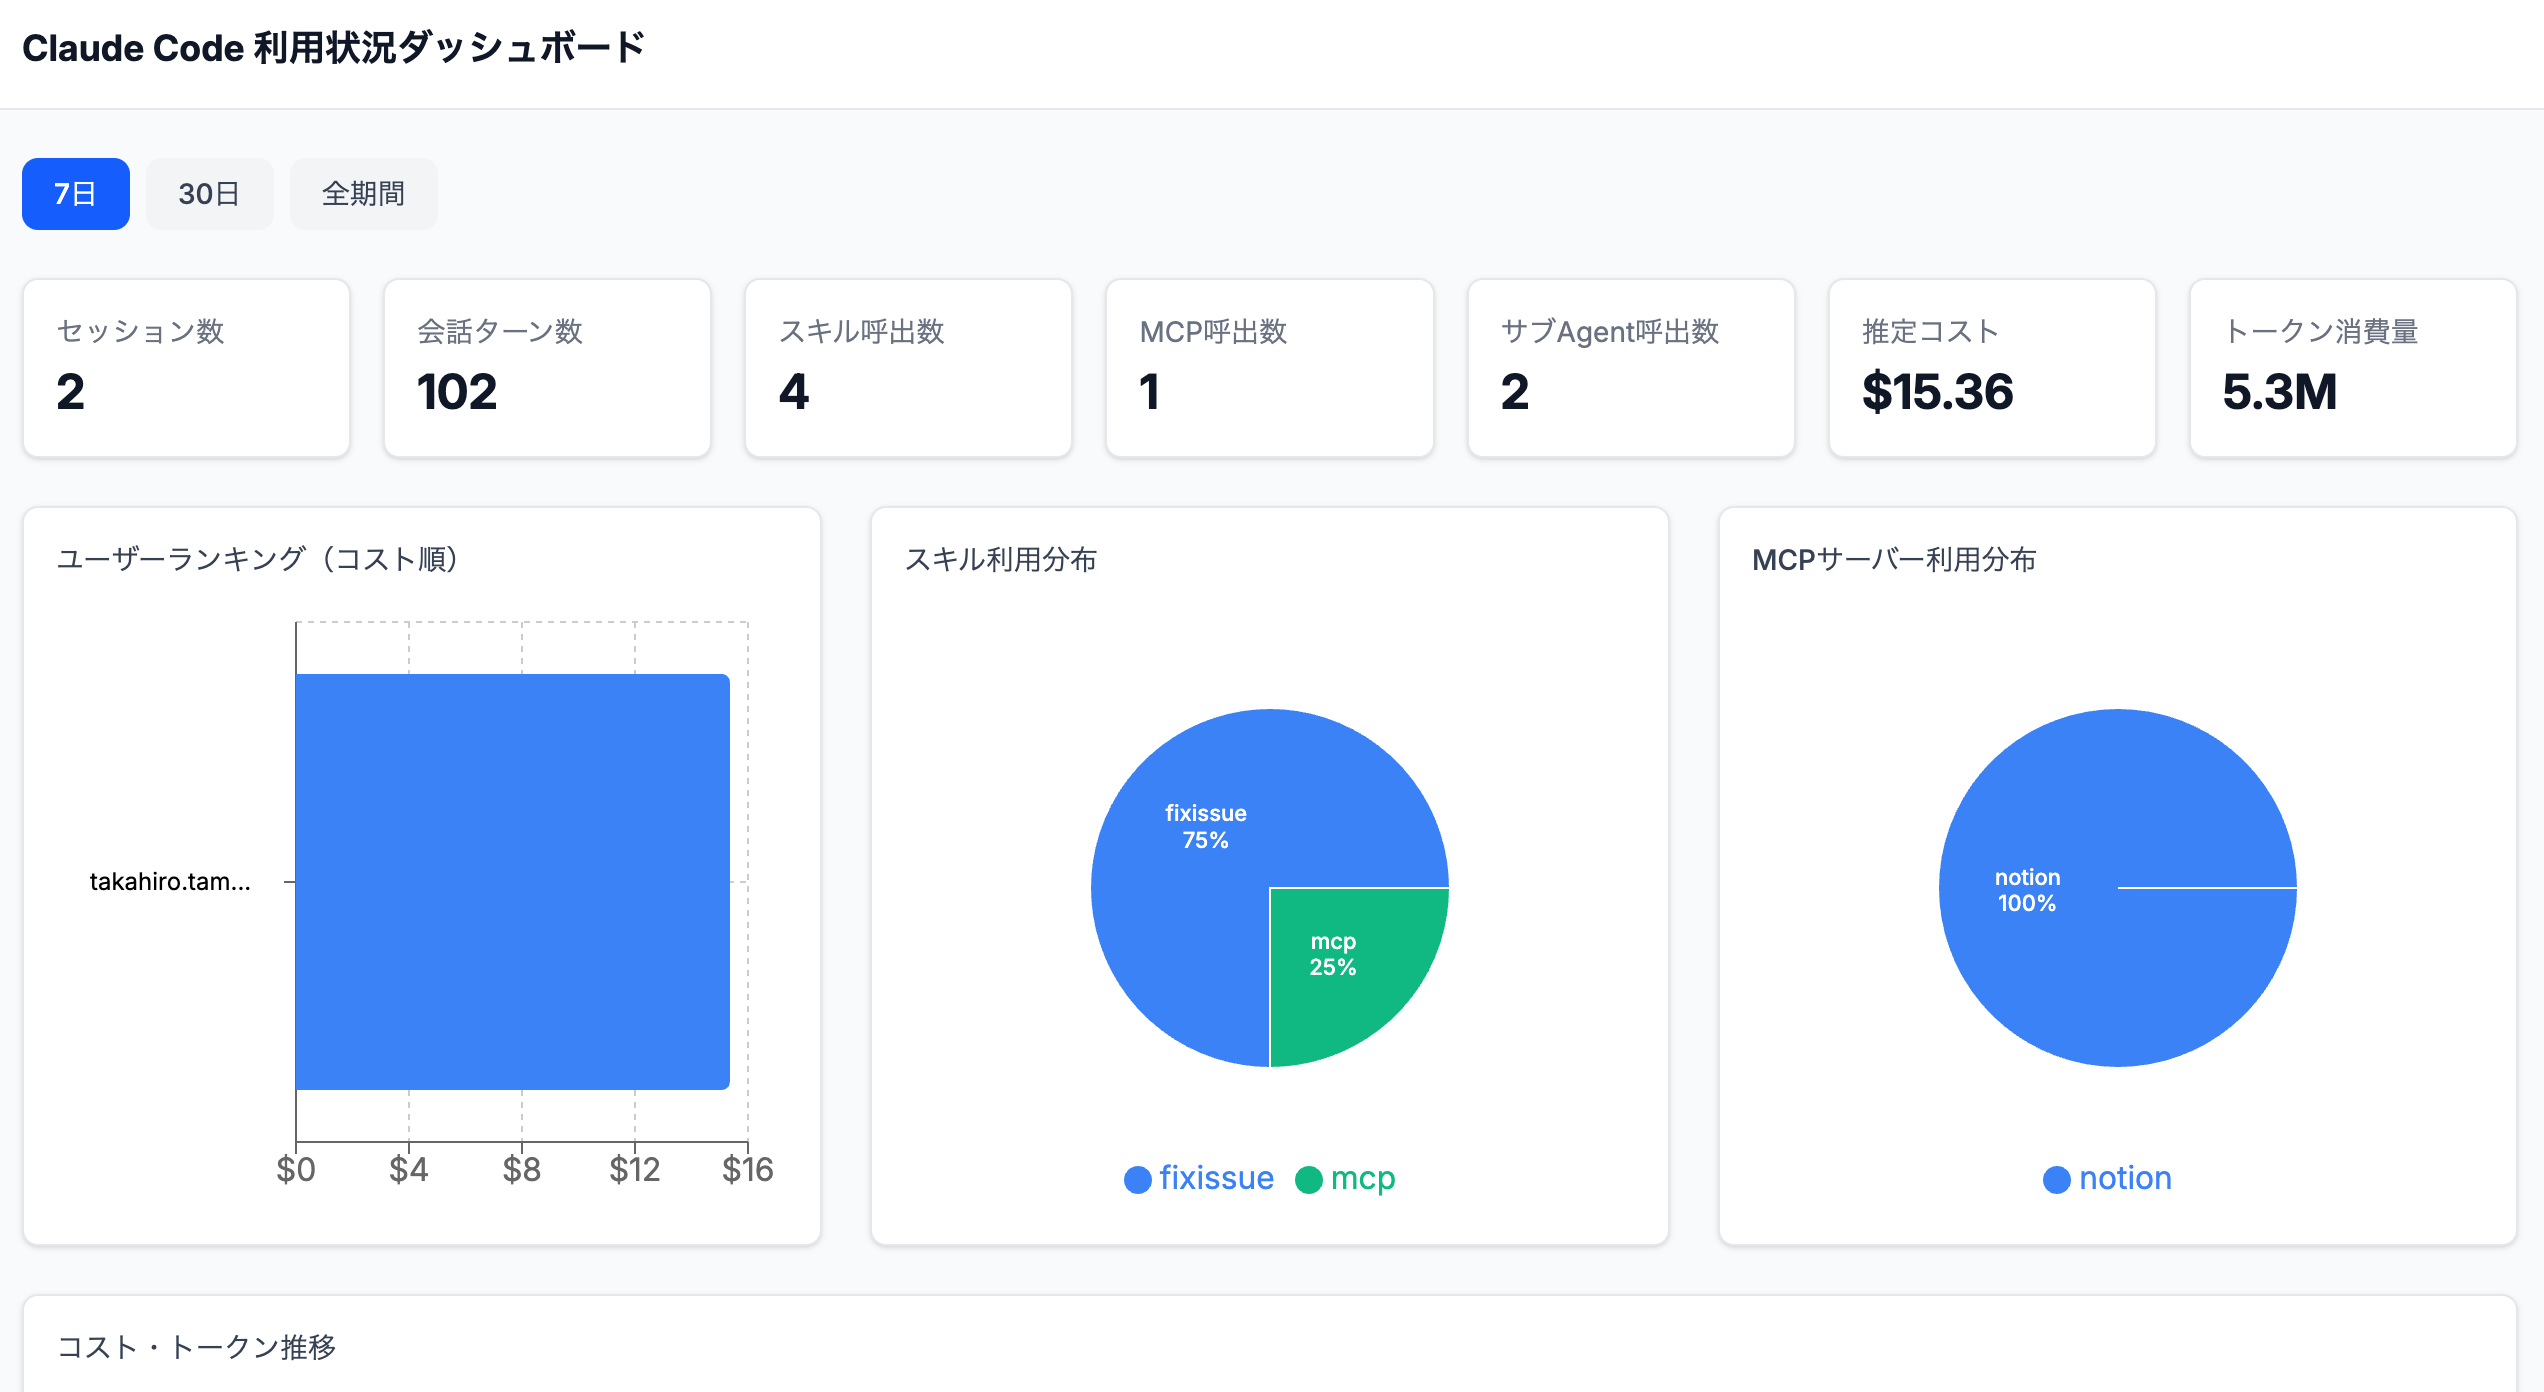
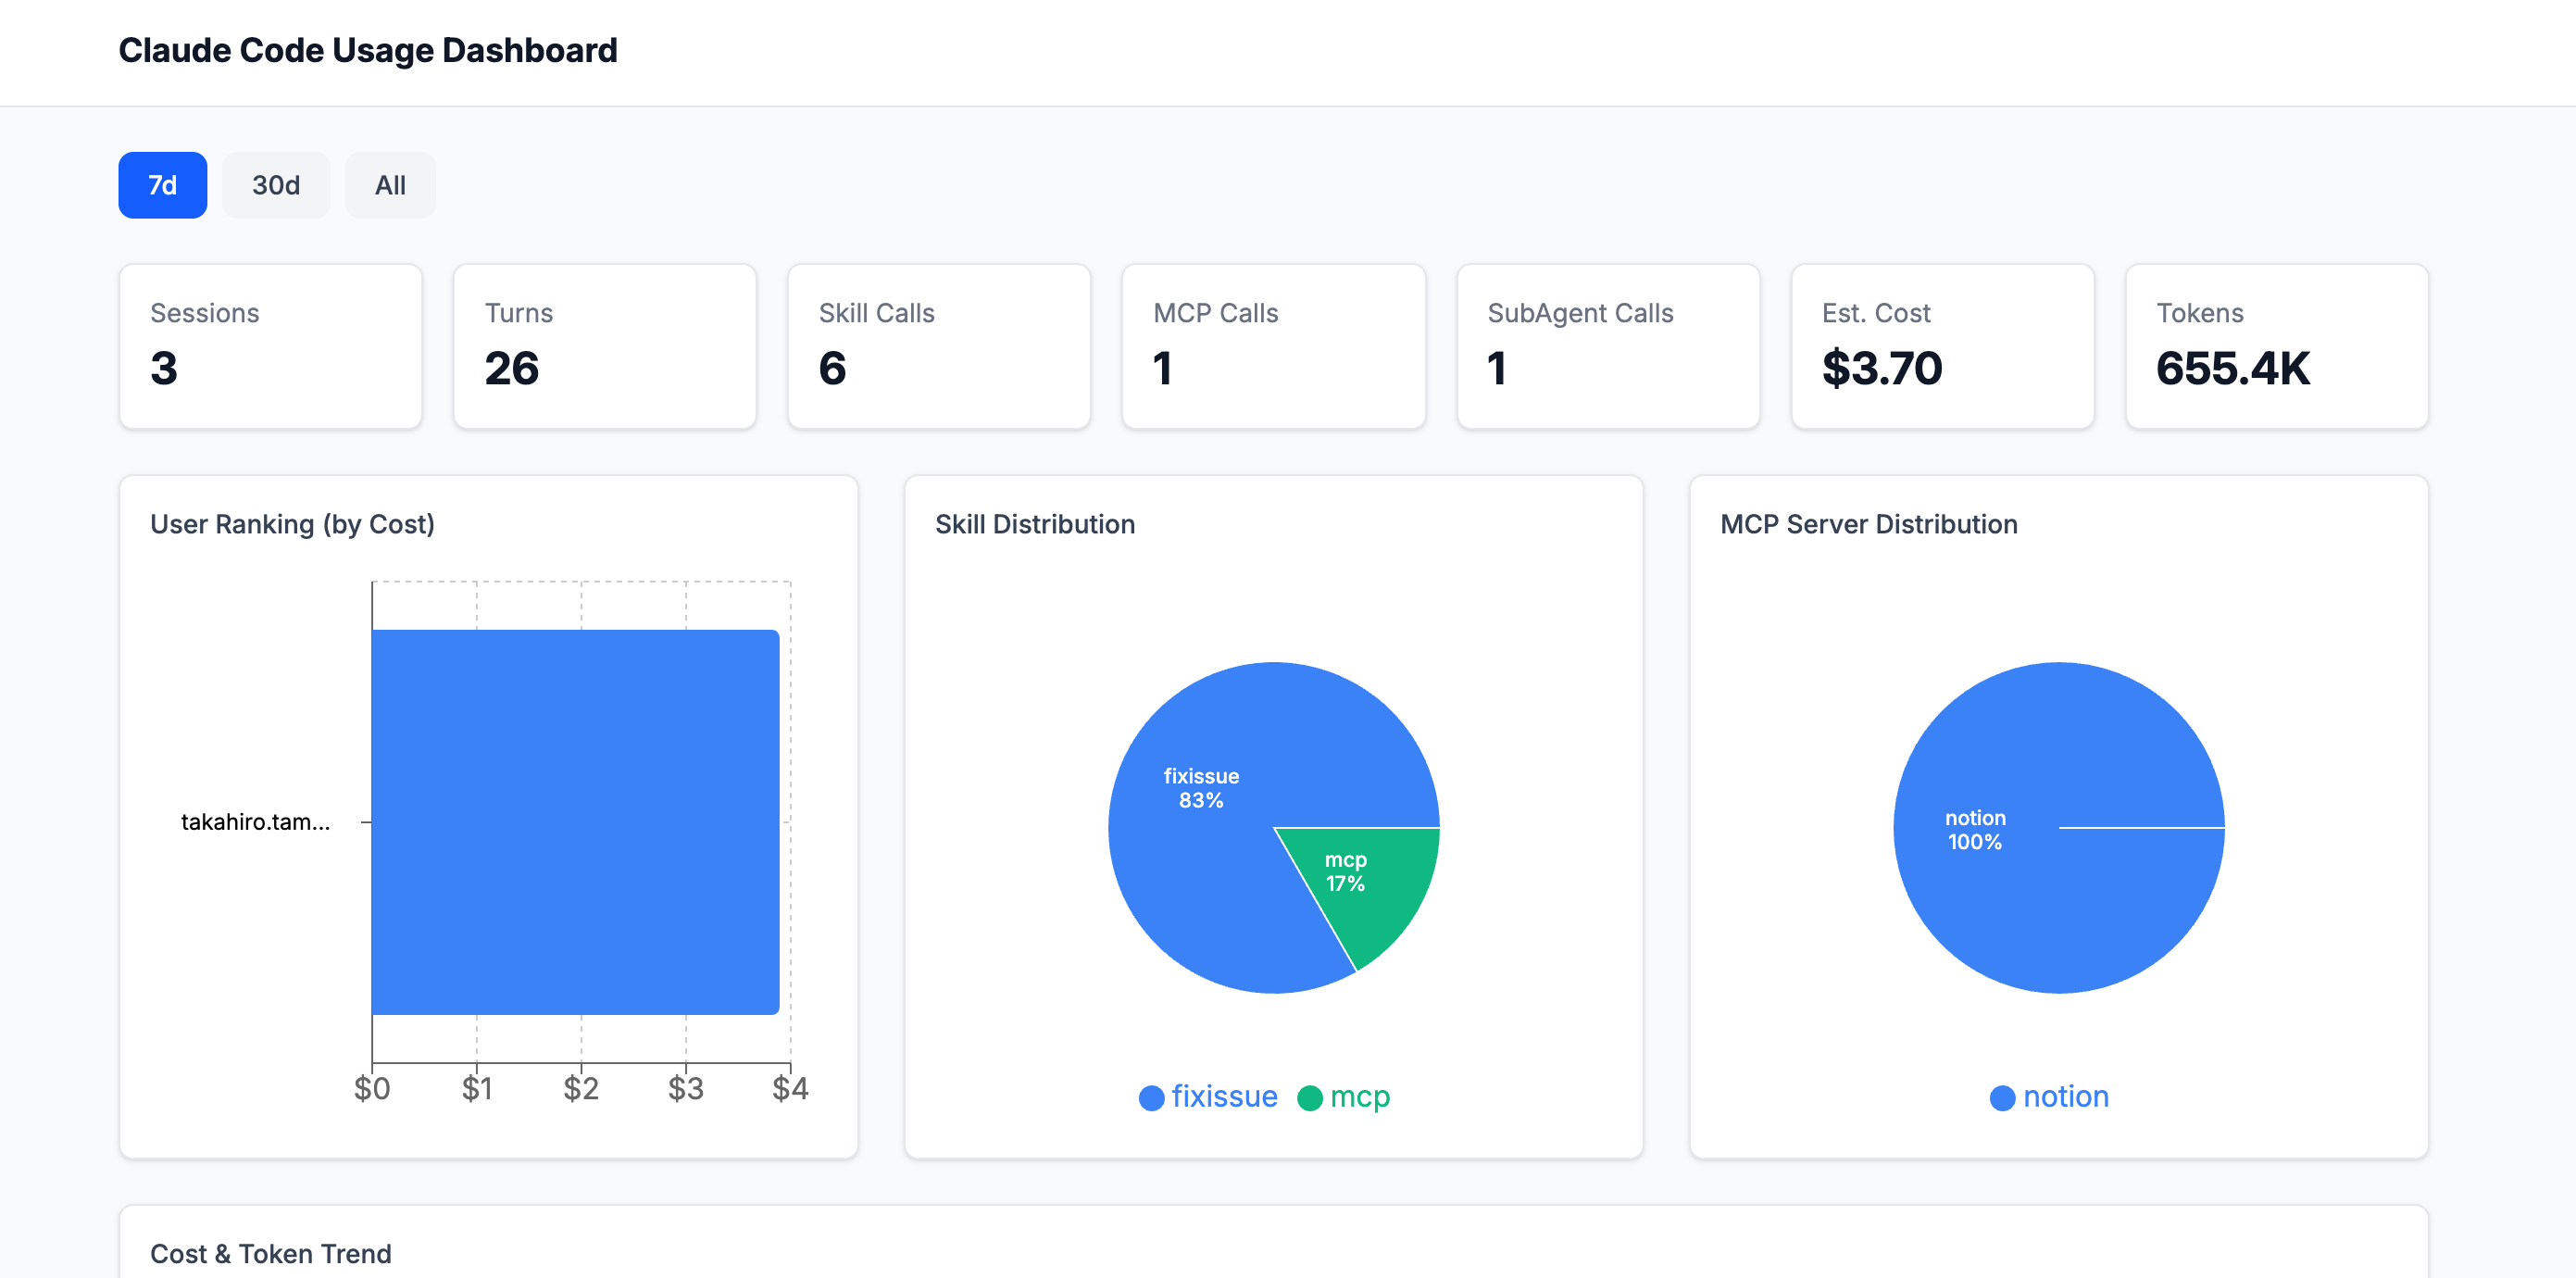
fix

diff --git a/dashboard/app/lib/cost.ts b/dashboard/app/lib/cost.ts
@@ -6,12 +6,14 @@ interface ModelPricing {
   cache_creation: number;
 }
 
+// Pricing is based on the pricing of Claude Code Pro
+// https://claude.com/pricing#api
 const MODEL_PRICING: Record<string, ModelPricing> = {
   "claude-opus-4-6": {
-    input: 15,
-    output: 75,
-    cache_read: 1.5,
-    cache_creation: 18.75,
+    input: 5,
+    output: 25,
+    cache_read: 0.5,
+    cache_creation: 6.25,
   },
   "claude-sonnet-4-6": {
     input: 3,
@@ -20,10 +22,10 @@ const MODEL_PRICING: Record<string, ModelPricing> = {
     cache_creation: 3.75,
   },
   "claude-haiku-4-5": {
-    input: 0.8,
-    output: 4,
-    cache_read: 0.08,
-    cache_creation: 1.0,
+    input: 1,
+    output: 5,
+    cache_read: 0.1,
+    cache_creation: 1.25,
   },
 };
 

diff --git a/README.md b/README.md
@@ -4,7 +4,7 @@ A self-hosted dashboard to visualize and share [Claude Code](https://docs.anthro
 
 A Stop hook automatically parses transcripts at session end, collecting token consumption, skill / MCP / sub-agent usage, and estimated costs into interactive charts.
 
-![Dashboard](docs/images/dashboard-screenshot.png)
+![Dashboard](images/dashboard-screenshot.png)
 
 ## Features
 